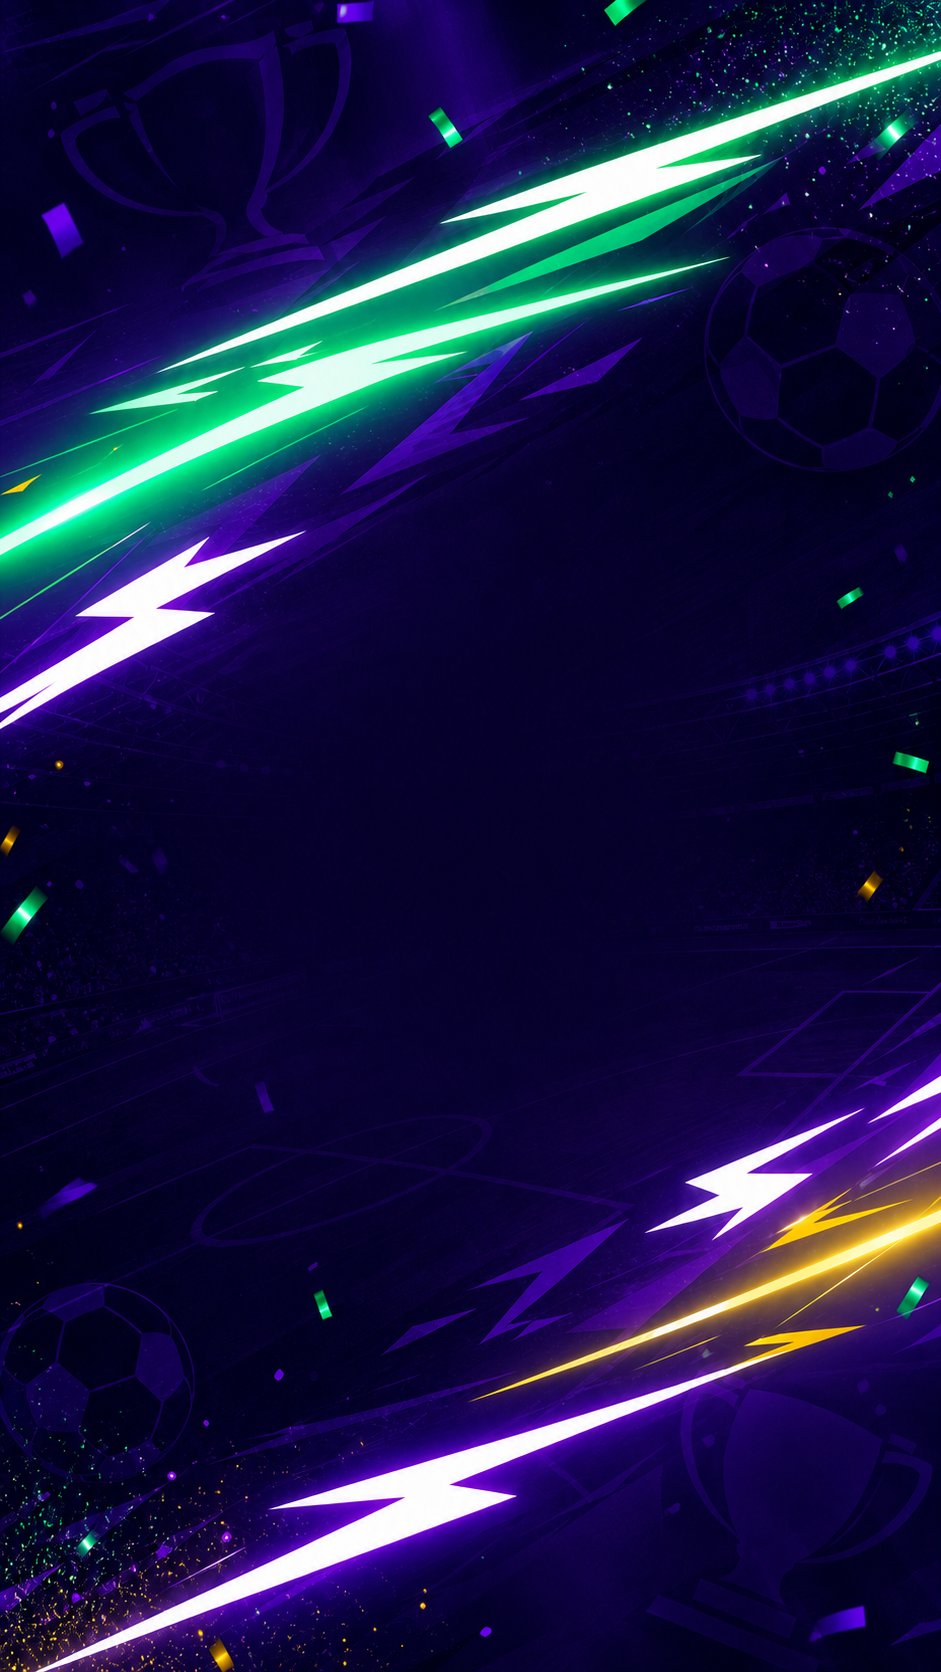
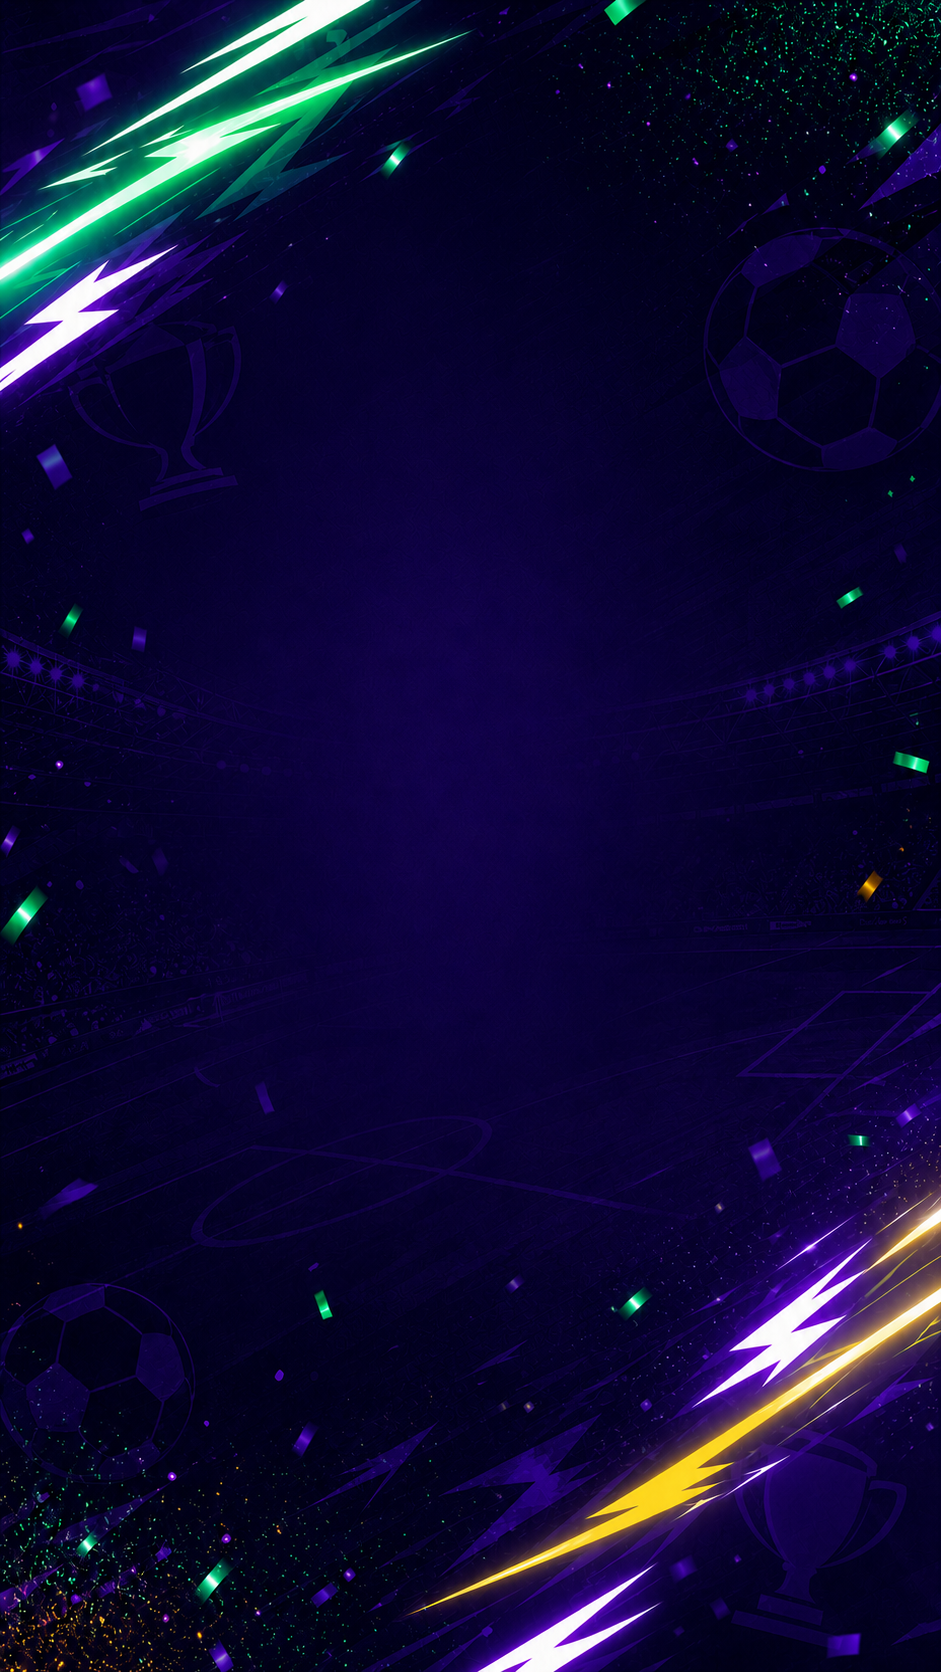
Simplify share card outcomes

diff --git a/src/challenge/ShareCard.tsx b/src/challenge/ShareCard.tsx
@@ -9,7 +9,7 @@ export type ShareCardProps = {
   scoreLabel: string
   matchLabel: string
   detailLabel: string
-  pointsLabel: string
+  pointsLabel?: string
   homeFlag?: string
   awayFlag?: string
   exactLabel?: string
@@ -40,6 +40,7 @@ export function ShareCard({
   playedScoreStruck = false,
 }: ShareCardProps) {
   const backgroundSrc = '/brakup-share-bg-brakup.png'
+  const hasBadges = Boolean(pointsLabel || exactLabel || scorerLabel)
   const badgeClass = (label: string) => (
     /non trouve|aucun|retente|revanche/i.test(label) ? 'is-lost' : 'is-won'
   )
@@ -54,11 +55,17 @@ export function ShareCard({
       <div className="brakup-share-card__boom">{boomLabel}</div>
       <div className="brakup-share-card__score">{scoreLabel}</div>
       <div className="brakup-share-card__ticket">
-        <div>
-          {homeFlag ? <span>{homeFlag}</span> : null}
-          <strong>{theme === 'prono' && homeFlag && awayFlag ? `${homeFlag} VS ${awayFlag}` : matchLabel}</strong>
-          {awayFlag ? <span>{awayFlag}</span> : null}
-        </div>
+        {theme === 'prono' ? (
+          <div className="brakup-share-card__match-title">
+            <strong>{matchLabel}</strong>
+          </div>
+        ) : (
+          <div>
+            {homeFlag ? <span>{homeFlag}</span> : null}
+            <strong>{matchLabel}</strong>
+            {awayFlag ? <span>{awayFlag}</span> : null}
+          </div>
+        )}
         {realScoreLabel && playedScoreLabel ? (
           <div className="brakup-share-card__scorelines">
             <span className="is-real">{realScoreLabel}</span>
@@ -67,11 +74,13 @@ export function ShareCard({
         ) : (
           <p>{detailLabel}</p>
         )}
-        <div className="brakup-share-card__badges">
-          <b className={badgeClass(pointsLabel)}>{pointsLabel}</b>
-          {exactLabel ? <b className={badgeClass(exactLabel)}>{exactLabel}</b> : null}
-          {scorerLabel ? <b className={badgeClass(scorerLabel)}>{scorerLabel}</b> : null}
-        </div>
+        {hasBadges ? (
+          <div className="brakup-share-card__badges">
+            {pointsLabel ? <b className={badgeClass(pointsLabel)}>{pointsLabel}</b> : null}
+            {exactLabel ? <b className={badgeClass(exactLabel)}>{exactLabel}</b> : null}
+            {scorerLabel ? <b className={badgeClass(scorerLabel)}>{scorerLabel}</b> : null}
+          </div>
+        ) : null}
       </div>
       <div className="brakup-share-card__cta">A toi de tenter ton prono sur Brakup</div>
     </div>

diff --git a/src/challenge/challenge.css b/src/challenge/challenge.css
@@ -3186,6 +3186,14 @@
   font-size: min(9vw, 36px);
   text-shadow: 0 0 16px rgba(43,255,154,.35);
 }
+.brakup-share-card__match-title {
+  display: flex;
+  justify-content: center;
+  align-items: center;
+}
+.brakup-share-card.is-prono .brakup-share-card__match-title strong {
+  font-size: min(6.5vw, 27px);
+}
 
 .brakup-share-card__ticket p {
   margin: min(4vh, 16px) 0;
@@ -3198,8 +3206,11 @@
 }
 
 .brakup-share-card__scorelines {
-  display: grid;
-  gap: 8px;
+  display: flex;
+  align-items: center;
+  justify-content: center;
+  gap: 7px;
+  flex-wrap: nowrap;
   margin: min(4vh, 16px) 0;
 }
 
@@ -3207,12 +3218,15 @@
   display: flex;
   align-items: center;
   justify-content: center;
-  gap: 8px;
-  min-height: 34px;
+  gap: 5px;
+  min-height: 32px;
+  min-width: 0;
+  padding: 0 9px;
   border-radius: 10px;
-  font: 900 min(6vw, 22px)/1.05 'Barlow Condensed','Arial Narrow',sans-serif;
+  font: 900 min(4.8vw, 18px)/1.05 'Barlow Condensed','Arial Narrow',sans-serif;
   letter-spacing: .04em;
   text-transform: uppercase;
+  white-space: nowrap;
 }
 
 .brakup-share-card__scorelines .is-real {

diff --git a/src/challenge/BrakupHub.tsx b/src/challenge/BrakupHub.tsx
@@ -793,6 +793,14 @@ export function BrakupHub({
   const outcomeAwayTeam = outcomeNotice?.match.away.kind === 'team' ? teamsById.get(outcomeNotice.match.away.teamId) : undefined
   const outcomeHomeFlag = outcomeHomeTeam?.flagEmoji
   const outcomeAwayFlag = outcomeAwayTeam?.flagEmoji
+  const outcomeMatchLabel = outcomeHomeTeam && outcomeAwayTeam
+    ? `${outcomeHomeTeam.shortName || outcomeHomeTeam.name} - ${outcomeAwayTeam.shortName || outcomeAwayTeam.name}`
+    : outcomeNotice?.match.label ?? ''
+  const outcomeWinnerGainLabel = outcomeNotice?.progress.correct ? `Vainqueur +${outcomeNotice.progress.stagePoints}` : undefined
+  const outcomeExactGainLabel = outcomeNotice?.progress.exact ? `Score exact +${outcomeNotice.progress.exactPoints}` : undefined
+  const outcomeScorerGainLabel = outcomeScorerNames.length && outcomeNotice
+    ? `Buteur +${outcomeNotice.progress.scorerPoints}: ${outcomeScorerNames.join(', ')}`
+    : undefined
   const menuPseudo = savedProfile.pseudo || brackets.find((entry) => entry.id === activeBracketId)?.pseudo || 'Invite'
   const singleBracketEntry = currentLeaderboardEntry ?? brackets[0] ?? null
 
@@ -1032,15 +1040,15 @@ export function BrakupHub({
                 headline: outcomeHeadline,
                 boomLabel: outcomeBoomLabel,
                 scoreLabel: outcomeBreakdownTotal > 0 ? `+${outcomeBreakdownTotal} PTS GAGNES` : '0 PT GAGNE',
-                matchLabel: `${outcomeHomeFlag ?? ''} VS ${outcomeAwayFlag ?? ''}`.trim() || outcomeNotice.match.label,
+                matchLabel: outcomeMatchLabel,
                 detailLabel: `Reel ${formatScore(outcomeNotice.progress.realScore)} · Ton pari ${formatScore(outcomeNotice.progress.playedScore)}`,
-                pointsLabel: outcomeNotice.progress.correct ? 'Vainqueur trouve' : 'Vainqueur non trouve',
-                exactLabel: outcomeNotice.progress.exact ? `Score exact +${outcomeNotice.progress.exactPoints}` : 'Score exact non trouve',
-                scorerLabel: outcomeScorerNames.length ? `Buteur trouve: ${outcomeScorerNames.join(', ')}` : 'Aucun buteur trouve',
+                pointsLabel: outcomeWinnerGainLabel,
+                exactLabel: outcomeExactGainLabel,
+                scorerLabel: outcomeScorerGainLabel,
                 homeFlag: outcomeHomeFlag,
                 awayFlag: outcomeAwayFlag,
                 realScoreLabel: `${outcomeHomeFlag ?? ''} Reel ${formatScore(outcomeNotice.progress.realScore)} ${outcomeAwayFlag ?? ''}`,
-                playedScoreLabel: `${outcomeHomeFlag ?? ''} Ton pari ${formatScore(outcomeNotice.progress.playedScore)} ${outcomeAwayFlag ?? ''}`,
+                playedScoreLabel: `ton pari ${formatScore(outcomeNotice.progress.playedScore)}`,
                 playedScoreStruck: !outcomeNotice.progress.exact,
               }}
               fileName={`brakup-${safeFilePart(outcomeNotice.match.id)}-${outcomeNotice.progress.correct ? 'win' : 'loss'}.png`}